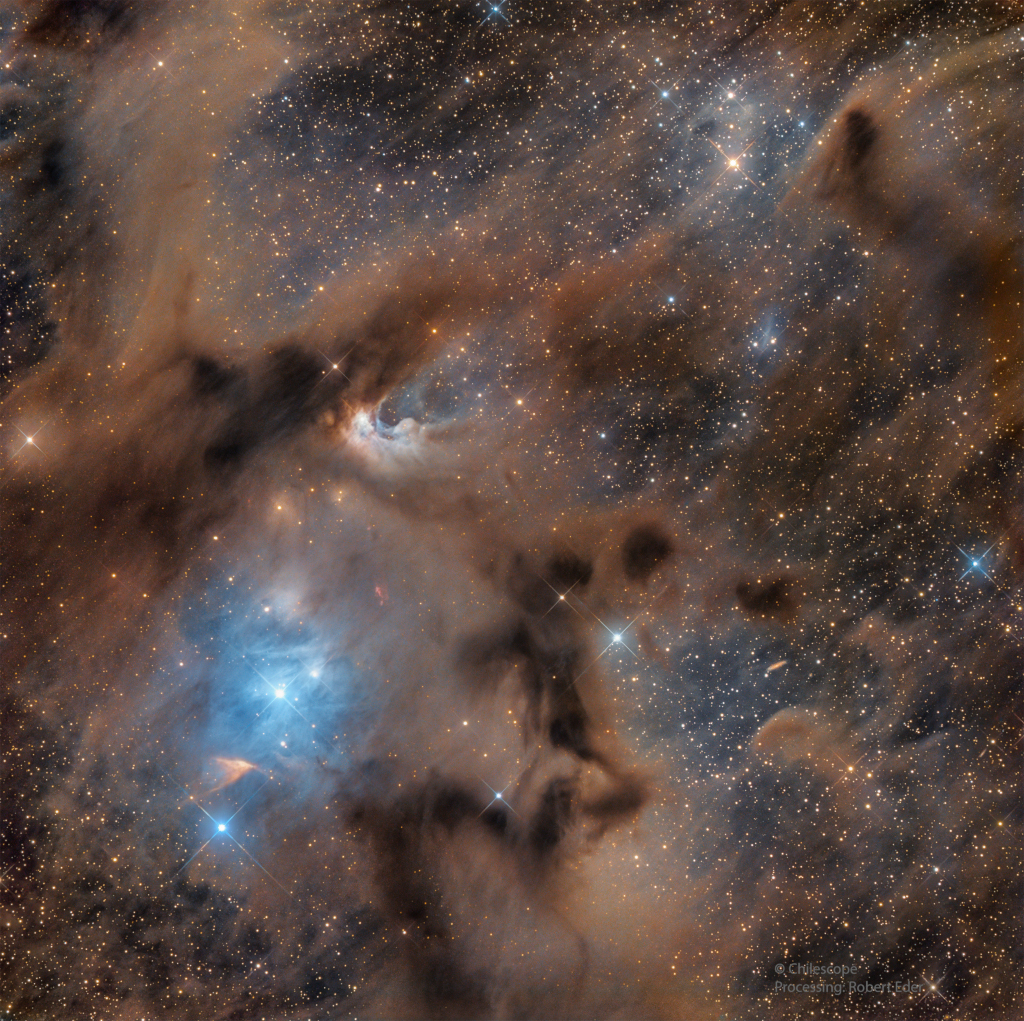
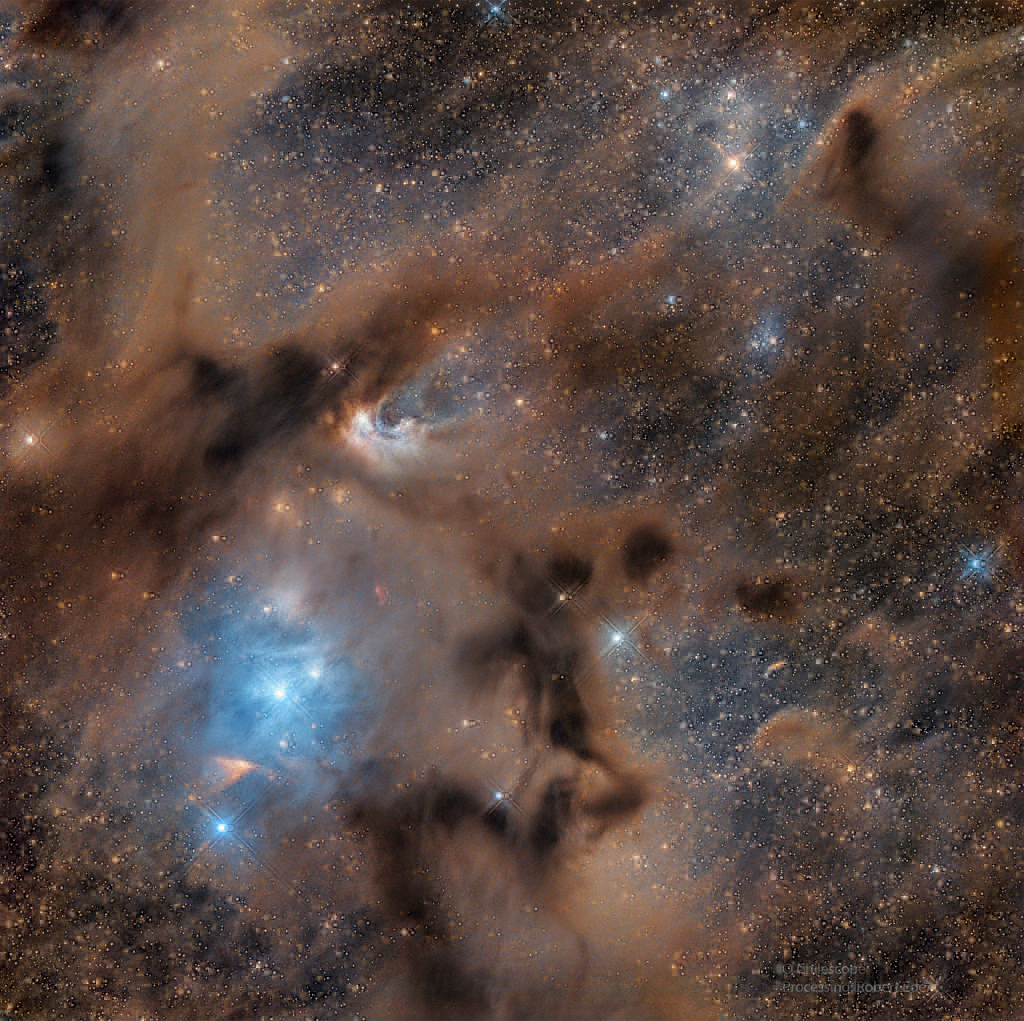
Moved from 256x256 to 512x512 in cnn-train-test.py and cnn-infer-image.py

diff --git a/cnn-train-test.py b/cnn-train-test.py
@@ -7,17 +7,17 @@ import torchvision.transforms as transforms
 import visdom
 from utils import Visualizer
 
-viz = Visualizer.Visualizer('Astro Classifier', use_incoming_socket=False)
+vis = Visualizer.Visualizer('Astro Classifier', use_incoming_socket=False)
 
 nmaxpool = 6
-img_width = 256
-img_height = 256
+img_width = 512
+img_height = 512
 img_out_width = img_width // 2**nmaxpool
 img_out_height = img_height // 2**nmaxpool
 
 # Definir a arquitetura da CNN
 class CNN(nn.Module):
-    def __init__(self, num_classes=5):
+    def __init__(self, num_classes=4):
         super(CNN, self).__init__()
         self.features = nn.Sequential(
 
@@ -79,7 +79,7 @@ class CNN(nn.Module):
         return x
 
 # Parâmetros de treinamento
-num_epochs = 240
+num_epochs = 80
 batch_size = 32
 learning_rate = 0.001
 
@@ -138,7 +138,7 @@ def train(model, dataloader, test_loader, criterion, optimizer, num_epochs):
 
         epoch_loss = running_loss / len(dataloader.dataset)
         print(f'Epoch [{epoch+1}/{num_epochs}], Loss: {epoch_loss:.4f}')
-        viz.plot_lines('batch loss', epoch_loss)
+        vis.plot_lines('batch loss', epoch_loss)
 
 predicted_labels = []
 
@@ -164,7 +164,7 @@ def test(model, dataloader):
 
     accuracy = 100 * correct / total
     print(f'Accuracy: {accuracy:.2f}%')
-    viz.plot_lines('test acuracy', accuracy)
+    vis.plot_lines('test acuracy', accuracy)
 
 # Mover o modelo para o dispositivo GPU antes do treinamento
 model.to(device)

diff --git a/cnn-infer-image.py b/cnn-infer-image.py
@@ -6,8 +6,8 @@ from utils import Visualizer  # You should import your Visualizer module here
 
 # Parameters
 num_classes = 4
-img_width = 256
-img_height = 256
+img_width = 512
+img_height = 512
 nmaxpool = 6
 img_out_width = img_width // (2 ** nmaxpool)
 img_out_height = img_height // (2 ** nmaxpool)
